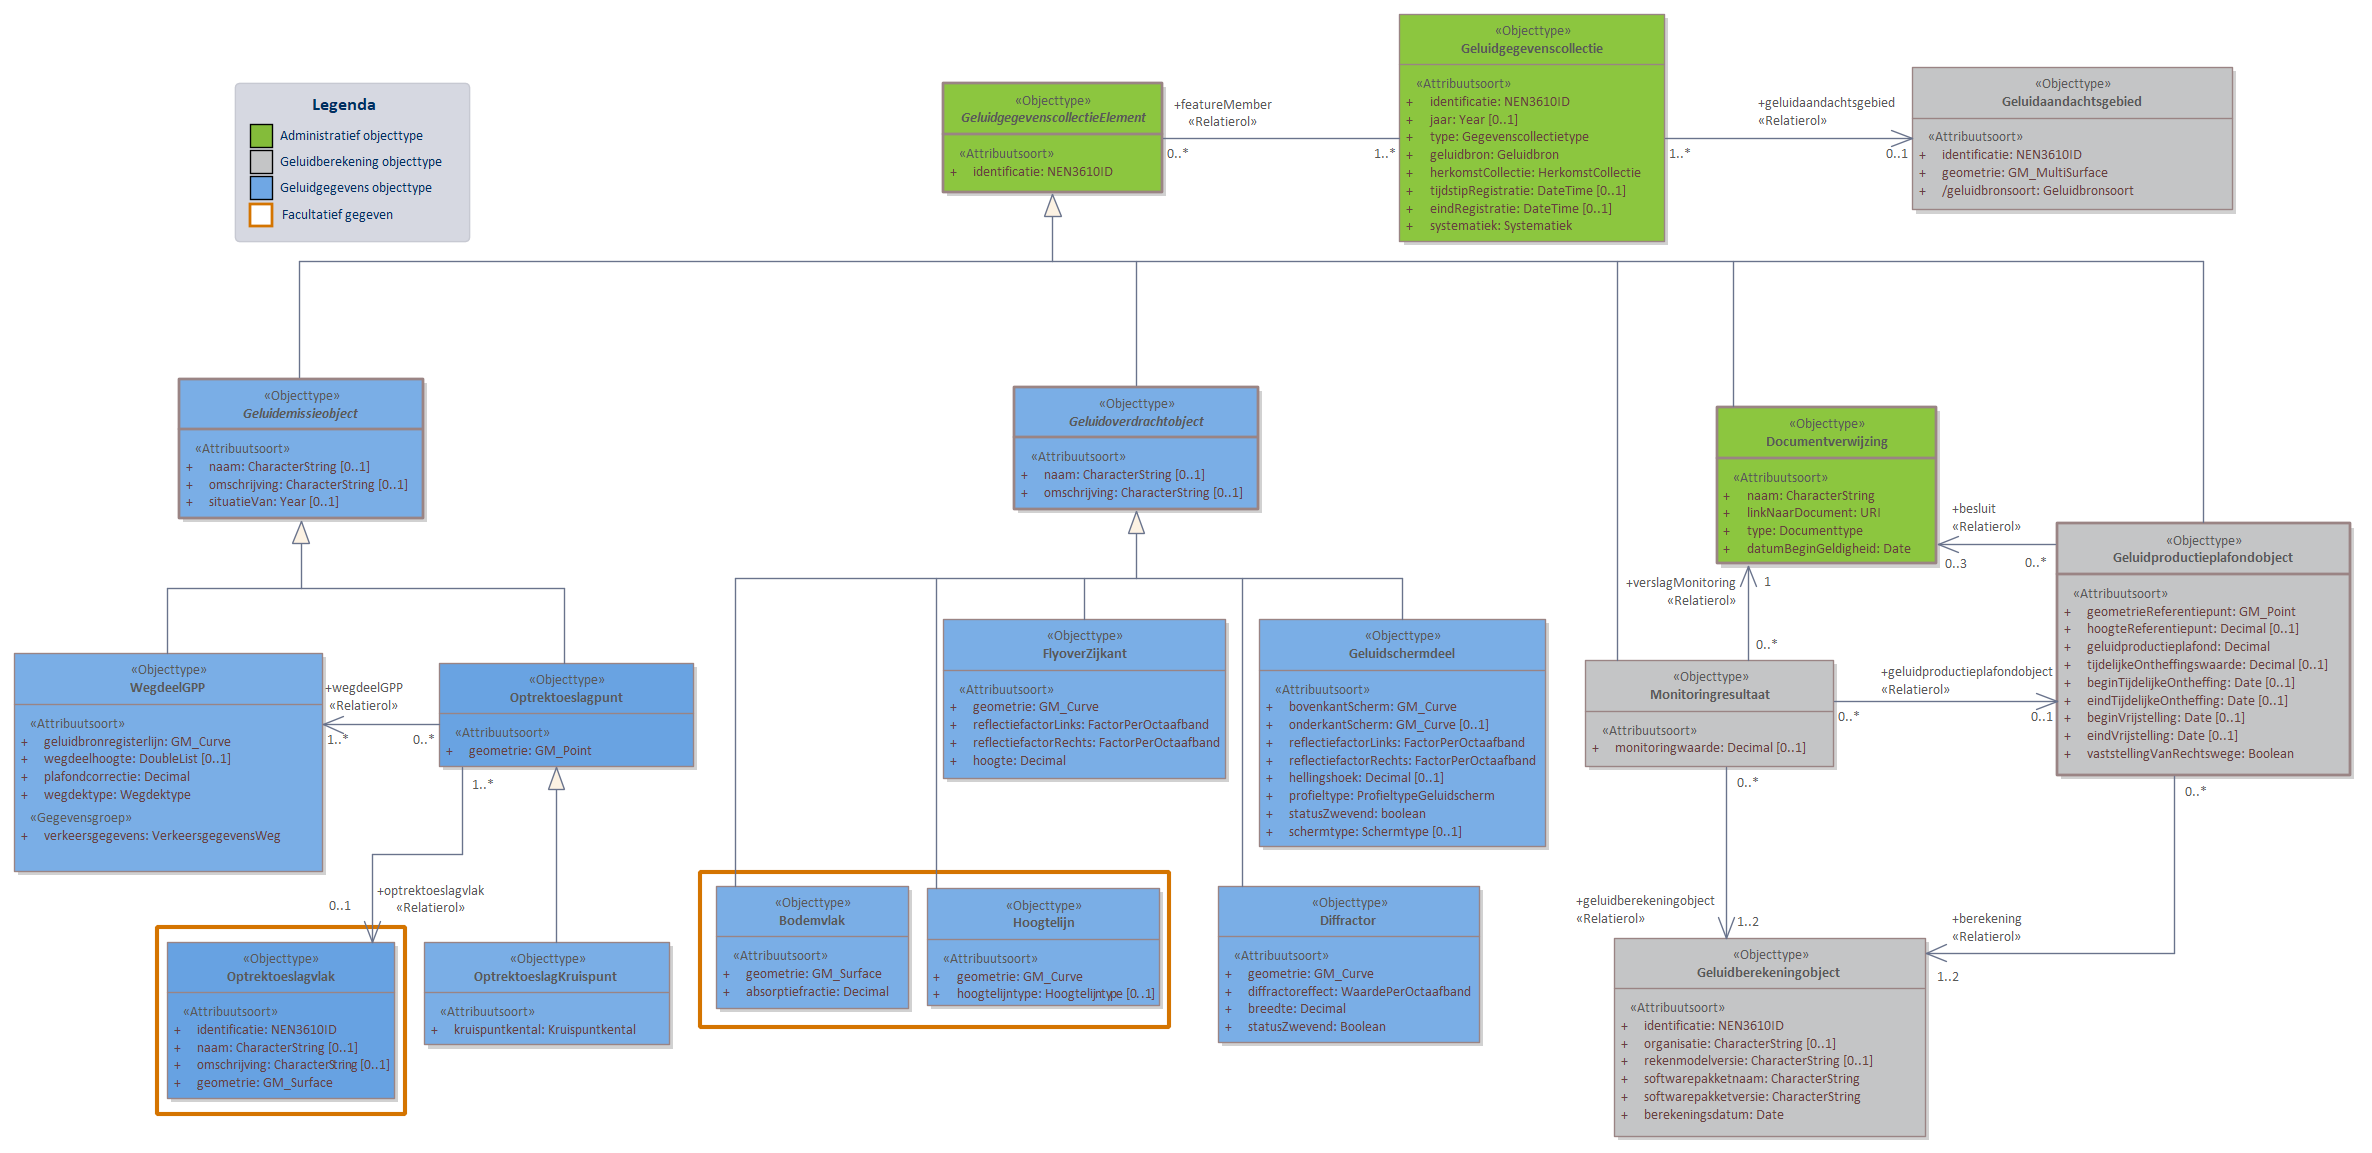
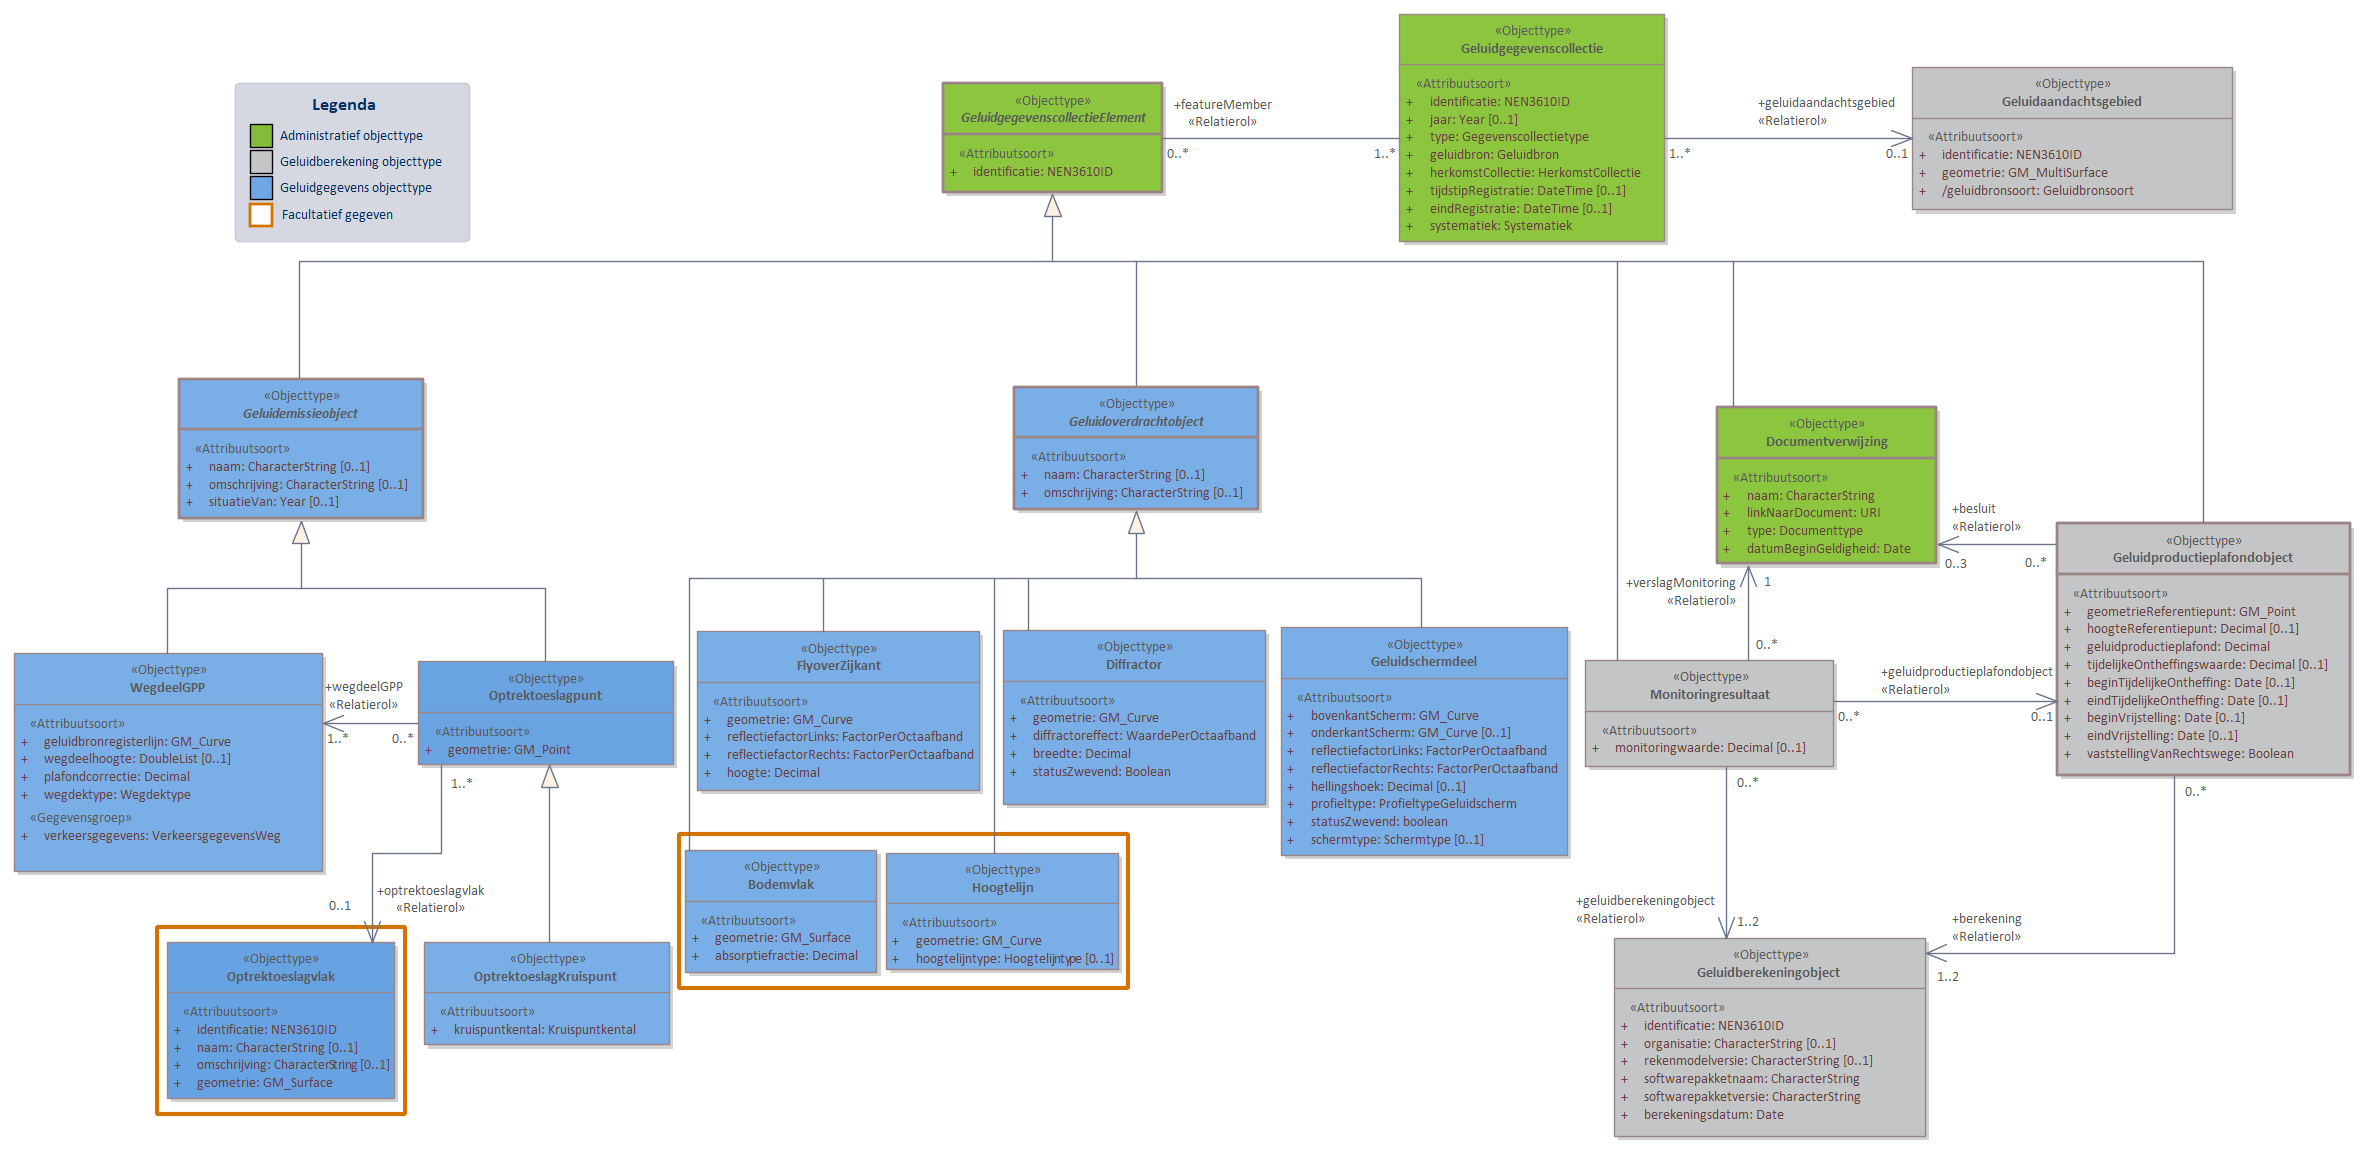
MIMLM-InformatiemodelGeluid-2.1-0-20221025-20230312-121422

Changed region(s): [[0.1248, 0.4996, 0.6863, 0.9055], [0.156, 0.7181, 0.1872, 0.7493]]

diff --git a/data/IMG-cat.respec.html b/data/IMG-cat.respec.html
@@ -1,10 +1,10 @@
 
 <!DOCTYPE HTML><section id="cat" class="normative">
    <h2>Gegevensdefinitie</h2>
-   <!--MIMLM-InformatiemodelGeluid-2.1-0-20221025-20221025-162429 imvertor 1.67.1-->
+   <!--MIMLM-InformatiemodelGeluid-2.1-0-20221025-20230312-121422 imvertor 1.67.1-->
    <section id="EAID_66AE8FA2_74FC_4d4d_B2B2_249C8D6A651F">
       <h3>   Basismodel - overzicht</h3>
-      <div class="imageinfo overview"><img src="data/Images/EAID_66AE8FA2_74FC_4d4d_B2B2_249C8D6A651F.png" usemap="#imagemap-EAID_66AE8FA2_74FC_4d4d_B2B2_249C8D6A651F" alt="Diagram &#xA;                        Het Basismodel vormt de samenhang tussen alle domeinen van het IMGeluid. Alle objecttypen en relaties uit het IMGeluid komen samen in een Geluidgegevenscollectie.&#xA;Binnen het IMGeluid worden geluidbrongegevens die gebruikt worden voor GPP en BGE berekeningen, gemodelleerd als een Geluidemissie of Geluidoverdrachtobject. De resultaten van GPP of BGE berekeningen worden opgeslagen in een Geluidgegevenscollectie. De onderliggende juridische vastleggingen, vaststellingen, of monitoringsverslagen van deze omgevings- of monitoringswaarden, worden ook opgeslagen in dezelfde Geluidgegevenscollectie.&#xA;Per geluidbron per toepassing kan er een Geluidgegevenscollectie bestaan. Deze kan geassocieerd worden met maximaal 1 Geluidaandachtsgebied. Wanneer geluidgegevens met betrekking tot cumulatieberekeningen worden aangeleverd, bevat een Geluidgegevenscollectie geen Geluidaandachtsgebied.&#xA;Klik met de rechtermuisknop op het diagram om de afbeelding op volledige grootte in een nieuw tabblad te openen.&#xA;                     "><map name="imagemap-EAID_66AE8FA2_74FC_4d4d_B2B2_249C8D6A651F"><area shape="rect" alt="GeluidgegevenscollectieElement" coords="221,85,458,189" href="#graph_EAID_924BD078_D715_461a_B7E9_D7176A7406E0"><area shape="rect" alt="Monitoringresultaat" coords="521,604,769,718" href="#graph_EAID_BA00B77B_D408_4590_8185_CE59E5838F1E"><area shape="rect" alt="Basisgeluidemissieobject" coords="191,741,441,860" href="#graph_EAID_9AD15457_4880_42e5_8C72_4E5EFAC91B15"><area shape="rect" alt="Geluidproductieplafondobject" coords="1066,454,1352,718" href="#graph_EAID_237408F8_8CE9_4828_B8FB_1A5B8C917622"><area shape="rect" alt="Geluidberekeningobject" coords="588,892,902,1092" href="#graph_EAID_97ED59FE_9FCA_49a6_8F07_214E48000B76"><area shape="rect" alt="Documentverwijzing" coords="616,336,873,511" href="#graph_EAID_7E137496_1028_4af5_9367_569358A2167B"><area shape="rect" alt="Geluidaandachtsgebied" coords="1126,67,1372,206" href="#graph_EAID_B06128AC_518C_4e26_88E5_14ED5A050A19"><area shape="rect" alt="Geluidgegevenscollectie" coords="626,14,895,242" href="#graph_EAID_313C5AF9_49B8_4860_9E65_DE7C70084864"><area shape="rect" alt="Geluidemissieobject" coords="25,511,272,655" href="#graph_EAID_361C96BA_A638_494e_80BA_590ED481A81B"><area shape="rect" alt="Geluidoverdrachtobject" coords="154,336,405,465" href="#graph_EAID_2FEA326B_B7E7_48a4_B50F_00CCB2694677"></map><p><b>Basismodel - overzicht</b>
+      <div class="imageinfo overview"><img src="data/Images/EAID_66AE8FA2_74FC_4d4d_B2B2_249C8D6A651F.png" usemap="#imagemap-EAID_66AE8FA2_74FC_4d4d_B2B2_249C8D6A651F" alt="Diagram &#xA;                        Het Basismodel vormt de samenhang tussen alle domeinen van het IMGeluid. Alle objecttypen en relaties uit het IMGeluid komen samen in een Geluidgegevenscollectie.&#xA;Binnen het IMGeluid worden geluidbrongegevens die gebruikt worden voor GPP en BGE berekeningen, gemodelleerd als een Geluidemissie of Geluidoverdrachtobject. De resultaten van GPP of BGE berekeningen worden opgeslagen in een Geluidgegevenscollectie. De onderliggende juridische vastleggingen, vaststellingen, of monitoringsverslagen van deze omgevings- of monitoringswaarden, worden ook opgeslagen in dezelfde Geluidgegevenscollectie.&#xA;Per geluidbron per toepassing kan er een Geluidgegevenscollectie bestaan. Deze kan geassocieerd worden met maximaal 1 Geluidaandachtsgebied. Wanneer geluidgegevens met betrekking tot cumulatieberekeningen worden aangeleverd, bevat een Geluidgegevenscollectie geen Geluidaandachtsgebied.&#xA;Klik met de rechtermuisknop op het diagram om de afbeelding op volledige grootte in een nieuw tabblad te openen.&#xA;                     "><map name="imagemap-EAID_66AE8FA2_74FC_4d4d_B2B2_249C8D6A651F"><area shape="rect" alt="GeluidgegevenscollectieElement" coords="210,85,447,189" href="#graph_EAID_924BD078_D715_461a_B7E9_D7176A7406E0"><area shape="rect" alt="Monitoringresultaat" coords="510,604,758,718" href="#graph_EAID_BA00B77B_D408_4590_8185_CE59E5838F1E"><area shape="rect" alt="Basisgeluidemissieobject" coords="180,741,430,860" href="#graph_EAID_9AD15457_4880_42e5_8C72_4E5EFAC91B15"><area shape="rect" alt="Geluidproductieplafondobject" coords="1055,454,1341,718" href="#graph_EAID_237408F8_8CE9_4828_B8FB_1A5B8C917622"><area shape="rect" alt="Geluidberekeningobject" coords="577,892,891,1092" href="#graph_EAID_97ED59FE_9FCA_49a6_8F07_214E48000B76"><area shape="rect" alt="Documentverwijzing" coords="605,336,862,511" href="#graph_EAID_7E137496_1028_4af5_9367_569358A2167B"><area shape="rect" alt="Geluidaandachtsgebied" coords="1115,67,1361,206" href="#graph_EAID_B06128AC_518C_4e26_88E5_14ED5A050A19"><area shape="rect" alt="Geluidgegevenscollectie" coords="615,14,884,242" href="#graph_EAID_313C5AF9_49B8_4860_9E65_DE7C70084864"><area shape="rect" alt="Geluidemissieobject" coords="14,511,261,655" href="#graph_EAID_361C96BA_A638_494e_80BA_590ED481A81B"><area shape="rect" alt="Geluidoverdrachtobject" coords="143,336,394,465" href="#graph_EAID_2FEA326B_B7E7_48a4_B50F_00CCB2694677"></map><p><b>Basismodel - overzicht</b>
             
             <p>Het Basismodel vormt de samenhang tussen alle domeinen van het IMGeluid. Alle objecttypen
                en relaties uit het IMGeluid komen samen in een Geluidgegevenscollectie.
@@ -67,7 +67,7 @@
    </section>
    <section id="EAID_82B8575E_C02C_4e96_9E78_ABCC68855A02">
       <h3>   GPP Weg - overzicht</h3>
-      <div class="imageinfo overview"><img src="data/Images/EAID_82B8575E_C02C_4e96_9E78_ABCC68855A02.png" usemap="#imagemap-EAID_82B8575E_C02C_4e96_9E78_ABCC68855A02" alt="Diagram &#xA;                        In domeinmodel GPP Weg staan objecttypen en relaties die relevant zijn voor geluidbronbeheersing van wegen waarvoor de geluidproductieplafond regeling geldt; en die nodig zijn voor akoestisch onderzoek binnen het geluidaandachtsgebied van wegen.&#xA;Geluidbronnen binnen GPP Weg worden opgeslagen als lijnbron conform het object WegdeelGPP. &#xA;Voor ieder Geluidproductieplafondobject langs een Provinciale weg of Rijksweg, valt te herleiden op welke geluidberekening de geluidproductieplafondwaarde gebaseerd is. Deze informatie wordt bijgehouden conform het Geluidberekeningobject.&#xA;Ook valt er te herleiden welke geluidbrongegevens gebruikt zijn bij een geluidberekening. Deze geluidbrongegevens zijn samen met het Geluidberekeningsobject terug te vinden in een  Geluidgegevenscollectie in de vorm van gespecialiseerde geluidemissie- en geluidoverdrachtsobjecten.&#xA;&#xA;Klik met de rechtermuisknop op het diagram om de afbeelding op volledige grootte in een nieuw tabblad te openen&#xA;                     "><map name="imagemap-EAID_82B8575E_C02C_4e96_9E78_ABCC68855A02"><area shape="rect" alt="FlyoverZijkant" coords="943,619,1226,779" href="#graph_EAID_FF192D4B_224A_4ff7_A9ED_606D78CF9128"><area shape="rect" alt="OptrektoeslagKruispunt" coords="424,942,670,1045" href="#graph_EAID_4F800172_6292_4070_8A78_73900027B0C8"><area shape="rect" alt="GeluidgegevenscollectieElement" coords="943,83,1163,193" href="#graph_EAID_924BD078_D715_461a_B7E9_D7176A7406E0"><area shape="rect" alt="Optrektoeslagvlak" coords="167,942,395,1099" href="#graph_EAID_7B375F30_CFE3_4f88_89E4_2C69854B8FB5"><area shape="rect" alt="Optrektoeslagpunt" coords="439,663,694,767" href="#graph_EAID_9462FEBF_FCC1_467b_B3EE_235782AA2541"><area shape="rect" alt="Monitoringresultaat" coords="1585,660,1834,767" href="#graph_EAID_BA00B77B_D408_4590_8185_CE59E5838F1E"><area shape="rect" alt="Geluidgegevenscollectie" coords="1399,14,1665,242" href="#graph_EAID_313C5AF9_49B8_4860_9E65_DE7C70084864"><area shape="rect" alt="Geluidemissieobject" coords="179,379,424,519" href="#graph_EAID_361C96BA_A638_494e_80BA_590ED481A81B"><area shape="rect" alt="Geluidoverdrachtobject" coords="1014,387,1259,510" href="#graph_EAID_2FEA326B_B7E7_48a4_B50F_00CCB2694677"><area shape="rect" alt="Diffractor" coords="1218,886,1480,1043" href="#graph_EAID_1B63DB45_6061_48e5_8890_AC0CA30E1454"><area shape="rect" alt="WegdeelGPP" coords="14,653,323,872" href="#graph_EAID_955703EE_254E_4d46_89C5_37D46AEADA8B"><area shape="rect" alt="Bodemvlak" coords="716,886,909,1009" href="#graph_EAID_902B9218_E1B1_4512_B52A_F8DADD1DB990"><area shape="rect" alt="Geluidschermdeel" coords="1259,619,1546,847" href="#graph_EAID_BC342A75_1053_4086_9B42_321F22E3FA82"><area shape="rect" alt="Hoogtelijn" coords="927,888,1160,1006" href="#graph_EAID_CE3003A0_5F16_4630_B2A6_519B33439135"><area shape="rect" alt="Geluidberekeningobject" coords="1614,938,1926,1137" href="#graph_EAID_97ED59FE_9FCA_49a6_8F07_214E48000B76"><area shape="rect" alt="Documentverwijzing" coords="1717,407,1937,564" href="#graph_EAID_7E137496_1028_4af5_9367_569358A2167B"><area shape="rect" alt="Geluidaandachtsgebied" coords="1912,67,2233,210" href="#graph_EAID_B06128AC_518C_4e26_88E5_14ED5A050A19"><area shape="rect" alt="Geluidproductieplafondobject" coords="2057,523,2351,776" href="#graph_EAID_237408F8_8CE9_4828_B8FB_1A5B8C917622"></map><p><b>GPP Weg - overzicht</b>
+      <div class="imageinfo overview"><img src="data/Images/EAID_82B8575E_C02C_4e96_9E78_ABCC68855A02.png" usemap="#imagemap-EAID_82B8575E_C02C_4e96_9E78_ABCC68855A02" alt="Diagram &#xA;                        In domeinmodel GPP Weg staan objecttypen en relaties die relevant zijn voor geluidbronbeheersing van wegen waarvoor de geluidproductieplafond regeling geldt; en die nodig zijn voor akoestisch onderzoek binnen het geluidaandachtsgebied van wegen.&#xA;Geluidbronnen binnen GPP Weg worden opgeslagen als lijnbron conform het object WegdeelGPP. &#xA;Voor ieder Geluidproductieplafondobject langs een Provinciale weg of Rijksweg, valt te herleiden op welke geluidberekening de geluidproductieplafondwaarde gebaseerd is. Deze informatie wordt bijgehouden conform het Geluidberekeningobject.&#xA;Ook valt er te herleiden welke geluidbrongegevens gebruikt zijn bij een geluidberekening. Deze geluidbrongegevens zijn samen met het Geluidberekeningsobject terug te vinden in een  Geluidgegevenscollectie in de vorm van gespecialiseerde geluidemissie- en geluidoverdrachtsobjecten.&#xA;&#xA;Klik met de rechtermuisknop op het diagram om de afbeelding op volledige grootte in een nieuw tabblad te openen&#xA;                     "><map name="imagemap-EAID_82B8575E_C02C_4e96_9E78_ABCC68855A02"><area shape="rect" alt="FlyoverZijkant" coords="697,631,980,791" href="#graph_EAID_FF192D4B_224A_4ff7_A9ED_606D78CF9128"><area shape="rect" alt="OptrektoeslagKruispunt" coords="424,942,670,1045" href="#graph_EAID_4F800172_6292_4070_8A78_73900027B0C8"><area shape="rect" alt="GeluidgegevenscollectieElement" coords="943,83,1163,193" href="#graph_EAID_924BD078_D715_461a_B7E9_D7176A7406E0"><area shape="rect" alt="Optrektoeslagvlak" coords="167,942,395,1099" href="#graph_EAID_7B375F30_CFE3_4f88_89E4_2C69854B8FB5"><area shape="rect" alt="Optrektoeslagpunt" coords="418,661,674,765" href="#graph_EAID_9462FEBF_FCC1_467b_B3EE_235782AA2541"><area shape="rect" alt="Monitoringresultaat" coords="1585,660,1834,767" href="#graph_EAID_BA00B77B_D408_4590_8185_CE59E5838F1E"><area shape="rect" alt="Geluidgegevenscollectie" coords="1399,14,1665,242" href="#graph_EAID_313C5AF9_49B8_4860_9E65_DE7C70084864"><area shape="rect" alt="Geluidemissieobject" coords="179,379,424,519" href="#graph_EAID_361C96BA_A638_494e_80BA_590ED481A81B"><area shape="rect" alt="Geluidoverdrachtobject" coords="1014,387,1259,510" href="#graph_EAID_2FEA326B_B7E7_48a4_B50F_00CCB2694677"><area shape="rect" alt="Diffractor" coords="1003,630,1266,805" href="#graph_EAID_1B63DB45_6061_48e5_8890_AC0CA30E1454"><area shape="rect" alt="WegdeelGPP" coords="14,653,323,872" href="#graph_EAID_955703EE_254E_4d46_89C5_37D46AEADA8B"><area shape="rect" alt="Bodemvlak" coords="685,850,877,973" href="#graph_EAID_902B9218_E1B1_4512_B52A_F8DADD1DB990"><area shape="rect" alt="Geluidschermdeel" coords="1281,627,1568,856" href="#graph_EAID_BC342A75_1053_4086_9B42_321F22E3FA82"><area shape="rect" alt="Hoogtelijn" coords="886,853,1119,970" href="#graph_EAID_CE3003A0_5F16_4630_B2A6_519B33439135"><area shape="rect" alt="Geluidberekeningobject" coords="1614,938,1926,1137" href="#graph_EAID_97ED59FE_9FCA_49a6_8F07_214E48000B76"><area shape="rect" alt="Documentverwijzing" coords="1717,407,1937,564" href="#graph_EAID_7E137496_1028_4af5_9367_569358A2167B"><area shape="rect" alt="Geluidaandachtsgebied" coords="1912,67,2233,210" href="#graph_EAID_B06128AC_518C_4e26_88E5_14ED5A050A19"><area shape="rect" alt="Geluidproductieplafondobject" coords="2057,523,2351,776" href="#graph_EAID_237408F8_8CE9_4828_B8FB_1A5B8C917622"></map><p><b>GPP Weg - overzicht</b>
             
             <p>In domeinmodel GPP Weg staan objecttypen en relaties die relevant zijn voor geluidbronbeheersing
                van wegen waarvoor de geluidproductieplafond regeling geldt; en die nodig zijn voor
@@ -8944,7 +8944,7 @@
                   <th>Definitie</th>
                   <td>
                      
-                     <p>Bepaald de breedte en richting van geluidsemissie vanaf een 'normale puntbron', 'uitstralende
+                     <p>Bepaalt de breedte en richting van geluidsemissie vanaf een 'normale puntbron', 'uitstralende
                         gevel' of een 'uitstralend dak'.</p>
                      </td>
                </tr>
@@ -26127,7 +26127,7 @@
 </section>
 <section id="lis" class="normative">
    <h2>Inhoud van waardenlijsten</h2>
-   <!--MIMLM-InformatiemodelGeluid-2.1-0-20221025-20221025-162429 imvertor 1.67.1--><a class="anchor" id="graph_EAID_C9ACE184_6E2B_40c1_ACE0_A7C5EE554EF9"></a><a class="anchor" id="detail_class_IMGeluidAlgemeen_Schermtype"></a><section id="detail_class_IMGeluidAlgemeen_Schermtype">
+   <!--MIMLM-InformatiemodelGeluid-2.1-0-20221025-20230312-121422 imvertor 1.67.1--><a class="anchor" id="graph_EAID_C9ACE184_6E2B_40c1_ACE0_A7C5EE554EF9"></a><a class="anchor" id="detail_class_IMGeluidAlgemeen_Schermtype"></a><section id="detail_class_IMGeluidAlgemeen_Schermtype">
       <h3>Enumeratie details  Schermtype</h3>
       
       <table style="width: 100%;" class="list">
